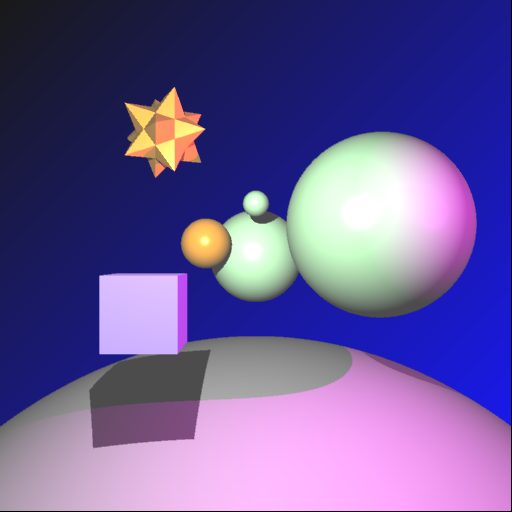
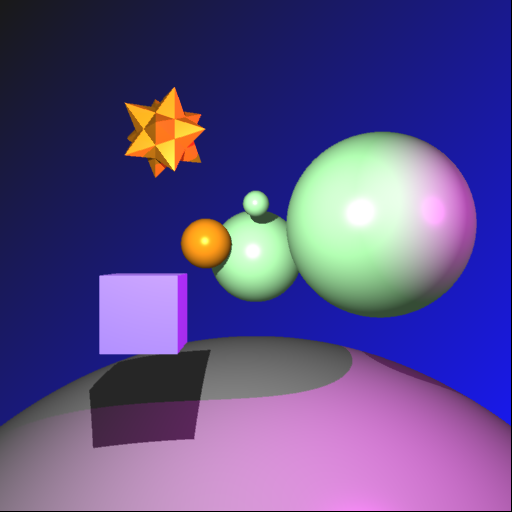
Starting textures

diff --git a/scene_lua.cpp b/scene_lua.cpp
@@ -56,6 +56,7 @@
 #include "Material.hpp"
 #include "PhongMaterial.hpp"
 #include "RayTracer.hpp"
+#include "Texture.hpp"
 
 typedef std::map<std::string, Mesh *> MeshMap;
 static MeshMap mesh_map;
@@ -110,6 +111,13 @@ struct gr_node_ud
 struct gr_material_ud
 {
   Material *material;
+};
+
+// The "userdata" type for a texture. Objects of this type will be
+// allocated by Lua to represent textures.
+struct gr_texture_ud
+{
+  Texture *texture;
 };
 
 // The "userdata" type for a light. Objects of this type will be
@@ -446,7 +454,7 @@ extern "C" int gr_material_cmd(lua_State *L)
   return 1;
 }
 
-// Create a Material
+// Create a Reflecting Material
 extern "C" int gr_material_refl_cmd(lua_State *L)
 {
   GRLUA_DEBUG_CALL;
@@ -471,7 +479,7 @@ extern "C" int gr_material_refl_cmd(lua_State *L)
   return 1;
 }
 
-// Create a Material
+// Create a Refracting Material
 extern "C" int gr_material_refr_cmd(lua_State *L)
 {
   GRLUA_DEBUG_CALL;
@@ -492,6 +500,24 @@ extern "C" int gr_material_refr_cmd(lua_State *L)
                                           shininess, refractivity, ior);
 
   luaL_newmetatable(L, "gr.material");
+  lua_setmetatable(L, -2);
+
+  return 1;
+}
+
+// Create a Texture
+extern "C" int gr_texture_cmd(lua_State *L)
+{
+  GRLUA_DEBUG_CALL;
+
+  gr_texture_ud *data = (gr_texture_ud *)lua_newuserdata(L, sizeof(gr_texture_ud));
+  data->texture = 0;
+
+  const char *filename = luaL_checkstring(L, 2);
+
+  data->texture = new Texture(Image::loadPng(filename));
+
+  luaL_newmetatable(L, "gr.texture");
   lua_setmetatable(L, -2);
 
   return 1;
@@ -535,6 +561,28 @@ extern "C" int gr_node_set_material_cmd(lua_State *L)
   Material *material = matdata->material;
 
   self->setMaterial(material);
+
+  return 0;
+}
+
+// Set a node's Texture
+extern "C" int gr_node_set_texture_cmd(lua_State *L)
+{
+  GRLUA_DEBUG_CALL;
+
+  gr_node_ud *selfdata = (gr_node_ud *)luaL_checkudata(L, 1, "gr.node");
+  luaL_argcheck(L, selfdata != 0, 1, "Node expected");
+
+  GeometryNode *self = dynamic_cast<GeometryNode *>(selfdata->node);
+
+  luaL_argcheck(L, self != 0, 1, "Geometry node expected");
+
+  gr_texture_ud *textdata = (gr_texture_ud *)luaL_checkudata(L, 2, "gr.texture");
+  luaL_argcheck(L, textdata != 0, 2, "Texture expected");
+
+  Texture *texture = textdata->texture;
+
+  self->setTexture(texture);
 
   return 0;
 }
@@ -637,6 +685,7 @@ static const luaL_Reg grlib_functions[] = {
     {"material", gr_material_cmd},
     {"material_refl", gr_material_refl_cmd},
     {"material_refr", gr_material_refr_cmd},
+    {"texture", gr_texture_cmd},
     {"cube", gr_cube_cmd},
     {"cone", gr_cone_cmd},
     {"cylinder", gr_cylinder_cmd},
@@ -664,6 +713,7 @@ static const luaL_Reg grlib_node_methods[] = {
     {"__gc", gr_node_gc_cmd},
     {"add_child", gr_node_add_child_cmd},
     {"set_material", gr_node_set_material_cmd},
+    {"set_texture", gr_node_set_texture_cmd},
     {"scale", gr_node_scale_cmd},
     {"rotate", gr_node_rotate_cmd},
     {"translate", gr_node_translate_cmd},

diff --git a/Mesh.cpp b/Mesh.cpp
@@ -45,7 +45,7 @@ Mesh::Mesh(const std::string &fname)
 	}
 	glm::vec3 min = glm::vec3(min_x, min_y, min_z);
 	glm::vec3 max = glm::vec3(max_x, max_y, max_z);
-	bounding_volume = new Box(glm::vec3(0, 0, 0), 1.0);
+	m_bounding_volume = new Box(glm::vec3(0, 0, 0), 1.0);
 	if (max_x == min_x)
 	{
 		max_x += 0.001;
@@ -61,23 +61,23 @@ Mesh::Mesh(const std::string &fname)
 	glm::vec3 scale_p = glm::vec3(max_x - min_x, max_y - min_y, max_z - min_z);
 	glm::mat4 T = glm::scale(glm::mat4(), scale_p);
 	T = glm::translate(glm::mat4(), min) * T;
-	norm_transform = glm::transpose(glm::inverse(glm::mat3(T)));
-	transform = glm::inverse(T);
+	m_norm_transform = glm::transpose(glm::inverse(glm::mat3(T)));
+	m_transform = glm::inverse(T);
 }
 
 Mesh::~Mesh()
 {
-	delete bounding_volume;
+	delete m_bounding_volume;
 }
 
 bool Mesh::DoesRayIntersect(const Ray &ray, double &t_min, glm::vec3 &normal, glm::vec3 &point) const
 {
-	const Ray scale_ray = Ray(glm::vec3(transform * glm::vec4(ray.A, 1.0f)),
-							  glm::vec3(transform * glm::vec4(ray.B, 1.0f)));
+	const Ray scale_ray = Ray(glm::vec3(m_transform * glm::vec4(ray.A, 1.0f)),
+							  glm::vec3(m_transform * glm::vec4(ray.B, 1.0f)));
 	double t_m = t_min;
 	// Note this will make us ignore the entire object if the bounding box is close to or behind the
 	// ray origin. This is okay with me.
-	if (!bounding_volume->DoesRayIntersect(scale_ray, t_m, normal, point))
+	if (!m_bounding_volume->DoesRayIntersect(scale_ray, t_m, normal, point))
 	{
 		return false;
 	}

diff --git a/GeometryNode.cpp b/GeometryNode.cpp
@@ -2,28 +2,33 @@
 
 #include "GeometryNode.hpp"
 
+#include "Material.hpp"
+#include "Texture.hpp"
 //---------------------------------------------------------------------------------------
 GeometryNode::GeometryNode(
-	const std::string & name, Primitive *prim, Material *mat )
-	: SceneNode( name )
-	, m_material( mat )
-	, m_primitive( prim )
+	const std::string &name, Primitive *prim, Material *mat)
+	: SceneNode(name), m_material(mat), m_primitive(prim)
 {
 	m_nodeType = NodeType::GeometryNode;
 }
 
-void GeometryNode::setMaterial( Material *mat )
+void GeometryNode::setMaterial(Material *mat)
 {
 	// Obviously, there's a potential memory leak here.  A good solution
-	// would be to use some kind of reference counting, as in the 
+	// would be to use some kind of reference counting, as in the
 	// C++ shared_ptr.  But I'm going to punt on that problem here.
 	// Why?  Two reasons:
 	// (a) In practice we expect the scene to be constructed exactly
 	//     once.  There's no reason to believe that materials will be
 	//     repeatedly overwritten in a GeometryNode.
-	// (b) A ray tracer is a program in which you compute once, and 
+	// (b) A ray tracer is a program in which you compute once, and
 	//     throw away all your data.  A memory leak won't build up and
 	//     crash the program.
 
 	m_material = mat;
+}
+
+void GeometryNode::setTexture(Texture *text)
+{
+	m_texture = text;
 }

diff --git a/SurfaceInteraction.cpp b/SurfaceInteraction.cpp
@@ -52,16 +52,17 @@ glm::vec3 Phong(
     const glm::vec3 &ambient,
     Material *material)
 {
-    glm::vec3 col = ambient;
+    glm::vec3 object_color = material->Diffuse(); // + texture_color;
+    glm::vec3 col = ambient * object_color;
     for (Light *light : lights)
     {
-        glm::vec3 norm_pos = glm::normalize(light->position - point);
         double l = LightReached(root, Ray(point, light->position), glm::mat4());
         if (!l)
         {
             continue;
         }
-        glm::vec3 diffuse = material->Diffuse() * std::max(glm::dot(norm_pos, norm), 0.0f);
+        glm::vec3 norm_pos = glm::normalize(light->position - point);
+        glm::vec3 diffuse = object_color * std::max(glm::dot(norm_pos, norm), 0.0f);
         glm::vec3 specular = material->Specular() * pow(std::max(glm::dot(norm_pos, reflect), 0.0f), material->Shininess());
         double dist = glm::distance(light->position, point);
         double attenuation = light->falloff[0] + (light->falloff[1] * dist) + (light->falloff[2] * dist * dist);

diff --git a/GeometryNode.hpp b/GeometryNode.hpp
@@ -1,10 +1,10 @@
-// Winter 2020
-
 #pragma once
 
 #include "SceneNode.hpp"
 #include "Primitive.hpp"
-#include "Material.hpp"
+
+class Material;
+class Texture;
 
 class GeometryNode : public SceneNode
 {
@@ -13,7 +13,10 @@ public:
 				 Material *mat = nullptr);
 
 	void setMaterial(Material *material);
+	void setTexture(Texture *texture);
 
 	Material *m_material;
+	Texture *m_texture;
+
 	Primitive *m_primitive;
 };

diff --git a/Mesh.hpp b/Mesh.hpp
@@ -34,7 +34,7 @@ private:
 	std::vector<glm::vec3> m_vertices;
 	std::vector<Triangle> m_faces;
 
-	Box *bounding_volume;
-	glm::mat4 transform;
-	glm::mat3 norm_transform;
+	Box *m_bounding_volume;
+	glm::mat4 m_transform;
+	glm::mat3 m_norm_transform;
 };

diff --git a/Texture.hpp b/Texture.hpp
@@ -1,0 +1,12 @@
+#pragma once
+
+#include "Image.hpp"
+
+class Texture
+{
+public:
+    Texture(const Image &image) : m_image(image) {}
+
+private:
+    Image m_image;
+};
